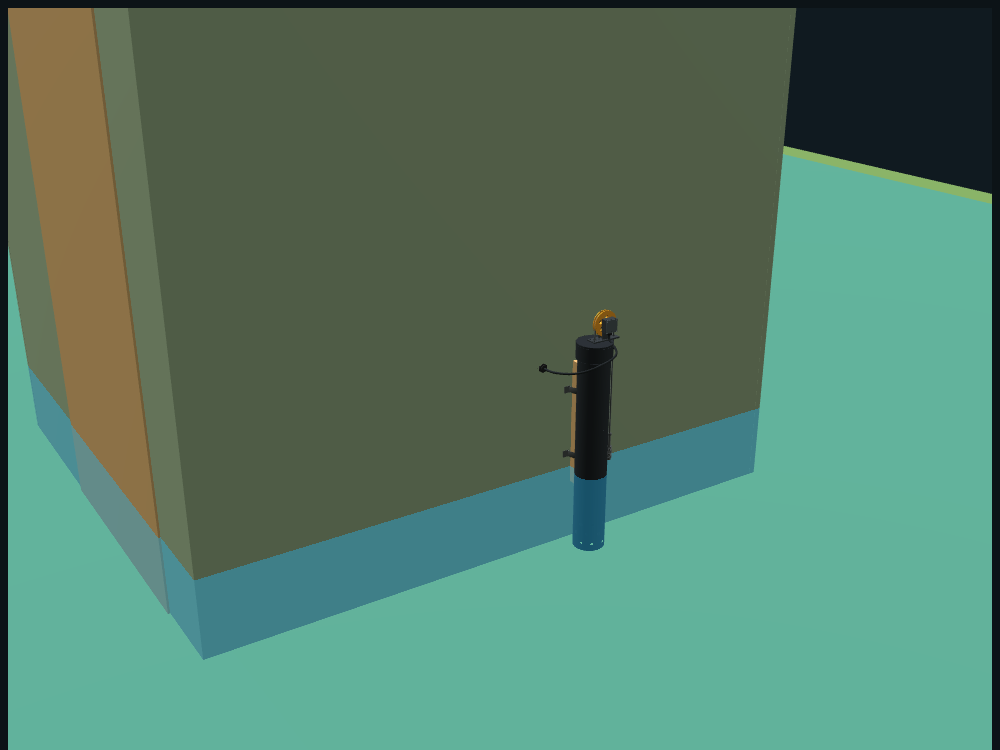
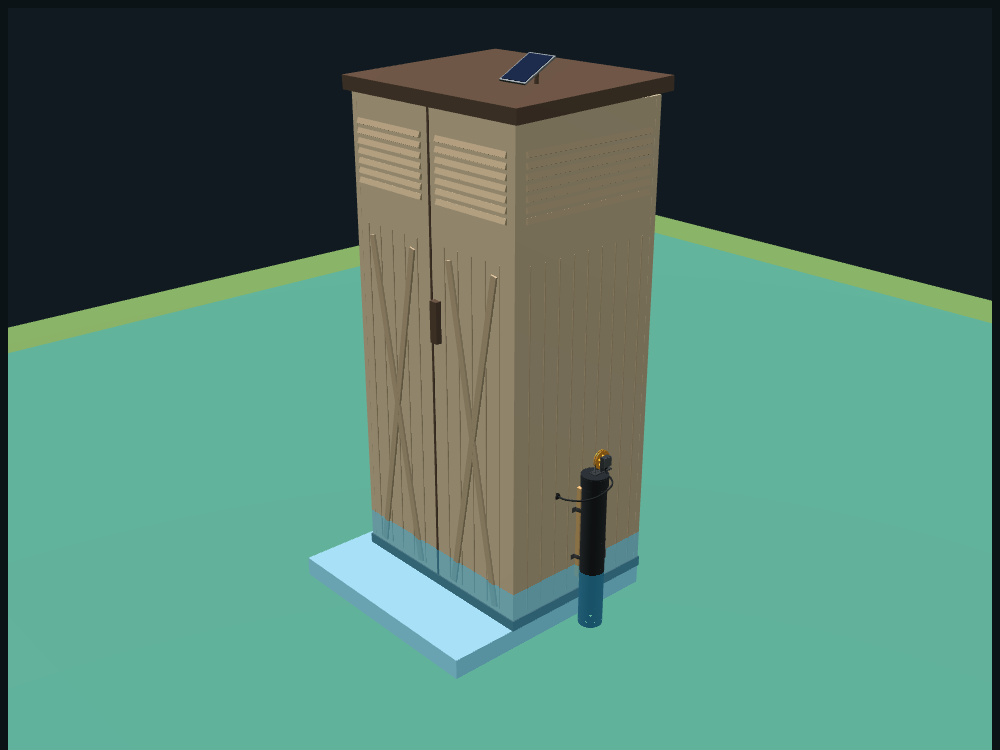
Model the Suncast vertical shed and add optional solar power
- Viewer: 819 x 648 x 1829 mm resin vertical shed on a concrete pad,
  gauge strapped to its side, ESP32 on the built-in shelf, 2 W panel
  on the roof, battery box beside the ESP32
- Fix a JS string quoting bug that blanked the 3D view
- BOM: shed ($299) and solar add-on ($16-31) as optional lines
- New section sizing the solar panel and 18650 battery from a daily
  energy budget (about 0.3 Wh/day dry, 0.7 Wh/day in a flood)

diff --git a/web/index.html b/web/index.html
@@ -288,7 +288,7 @@ footer { color: var(--muted); font-size: 13px; border-top: 1px solid var(--line)
   <section id="bom">
     <h2>Bill of materials</h2>
     <p class="muted" style="max-width:68ch">Rough prices, before tax and shipping. Pipe, chain, AS5600 and gland prices come from online listings checked in November 2026. The cap, straps, ESP32-C3, bolts and screws are typical prices, not checked against listings.</p>
-    <div class="bom-total"><span class="eyebrow">Estimated total</span><span class="big">$35–80</span><span class="muted">About $45 if the bolts, screws, charger and wire come from your parts bin.</span></div>
+    <div class="bom-total"><span class="eyebrow">Estimated total</span><span class="big">$35–80</span><span class="muted">About $45 if the bolts, screws, charger and wire come from your parts bin. Optional extras: the shed ($299) and <a href="#solar">solar power</a> ($16–31).</span></div>
     <div class="table-wrap">
       <table class="bom">
         <thead><tr><th>Item</th><th>Qty</th><th>Est. cost</th><th>Notes</th></tr></thead>
@@ -312,6 +312,8 @@ footer { color: var(--muted); font-size: 13px; border-top: 1px solid var(--line)
           <tr><td>3D-printed bracket, sprocket and lid, about 75 g of ASA or PETG</td><td class="mono">3</td><td class="mono num">$1–2</td><td>Filament cost only.</td></tr>
           <tr><td>Paper drilling templates</td><td class="mono">2 sheets</td><td class="mono num">$0</td><td>From the templates folder.</td></tr>
           <tr><td>Plastic bottle and sand</td><td class="mono">1</td><td class="mono num">$0</td><td>Recycled.</td></tr>
+          <tr class="group"><th colspan="4" scope="colgroup">Optional</th></tr>
+          <tr><td>Suncast BMS2000 vertical resin storage shed, 2 ft 8 in × 2 ft 1.5 in × 6 ft</td><td class="mono">1</td><td class="mono num">$299</td><td>Not in the total. A dry spot for the ESP32 if you don't have a shed or house wall to use.</td></tr>
         </tbody>
       </table>
     </div>
@@ -325,8 +327,54 @@ footer { color: var(--muted); font-size: 13px; border-top: 1px solid var(--line)
         <li><a href="https://www.tinytronics.nl/shop/en/sensors/magnetic-field/as5600-magnetic-angle-sensor-encoder-module" target="_blank" rel="noopener">AS5600 module with magnet, Tinytronics</a></li>
         <li><a href="https://www.fruugo.ca/as5600-magnetic-encoder-module-magnetic-induction-angle-measurement-sensor-module-foc-12bit-high-precision-sensor/p-447636426" target="_blank" rel="noopener">AS5600 module, Fruugo</a></li>
         <li><a href="https://au.element14.com/multicomp-pro/pg9dg/gland-pg9-4-8mm-pk10/dp/1621062" target="_blank" rel="noopener">PG7/PG9 cable glands, element14</a></li>
+        <li><a href="https://www.homedepot.com/p/Suncast-2-ft-8-25-in-X-2-ft-1-5-in-X-6-ft-Resin-Vertical-Storage-Shed-BMS2000/203702004" target="_blank" rel="noopener">Suncast BMS2000 shed, Home Depot</a></li>
       </ul>
     </details>
+  </section>
+
+  <section id="solar">
+    <h2>Optional: solar and battery power</h2>
+    <p style="max-width:68ch">The gauge can run without mains power. Use a single 18650 cell on the shed shelf, charged by a small panel on the roof. This only works with low-power firmware, because an ESP32 that keeps WiFi on all the time uses about 25 times more energy.</p>
+    <div class="cols" style="margin-top:12px">
+      <div>
+        <h3>Daily energy budget</h3>
+        <div class="table-wrap">
+          <table class="bom">
+            <thead><tr><th>Load</th><th>How it runs</th><th>mAh/day</th></tr></thead>
+            <tbody>
+              <tr><td>AS5600</td><td>Low-power mode 3 (polls every 100 ms), about 1.5 mA</td><td class="mono num">36</td></tr>
+              <tr><td>ESP32-C3</td><td>Light sleep, waking every 0.5 s to read the angle, about 1.5 mA average</td><td class="mono num">36</td></tr>
+              <tr><td>WiFi reports</td><td>Every 15 min when dry: about 3 s at 100 mA each</td><td class="mono num">8</td></tr>
+              <tr><td>Board regulator</td><td>About 40 µA. Remove the board's power LED, which draws 1–3 mA.</td><td class="mono num">1</td></tr>
+              <tr class="group"><th colspan="2">Dry days, normal use</th><th class="mono num">≈ 80</th></tr>
+              <tr><td>During a flood</td><td>Report every minute instead: +112 mAh</td><td class="mono num">≈ 190</td></tr>
+              <tr><td>For comparison</td><td>WiFi always on, about 80 mA</td><td class="mono num">≈ 1900</td></tr>
+            </tbody>
+          </table>
+        </div>
+      </div>
+      <div>
+        <h3>Sizing the panel and battery</h3>
+        <p>80 mAh at 3.7 V is about <strong>0.3 Wh a day</strong>, rising to 0.7 Wh on flood days.</p>
+        <div class="formula">panel W = daily Wh / (sun hours × losses)
+       = 0.7 / (2.5 × 0.5) ≈ 0.6 W</div>
+        <p style="margin-top:12px">San Francisco gets about 2.5 peak sun hours a day in December. Halve that to allow for charger losses, dirt and a less-than-ideal angle on the shed roof. Even then, <strong>a 1 W panel covers normal use</strong>. A <strong>2 W, 6 V panel</strong> gives headroom for grey weeks. On a storm day a panel only makes 10–20% of its rating, so the battery has to carry the storm.</p>
+        <p>One 3000 mAh 18650 cell lasts about 15 days in flood mode with no sun, or about 5 weeks of dry days. After a storm, a 2 W panel puts back about 700 mAh on a December day, so even a flat cell is full again in about 4–5 days, sooner in summer.</p>
+      </div>
+    </div>
+    <div class="table-wrap" style="margin-top:16px">
+      <table class="bom">
+        <thead><tr><th>Solar add-on part</th><th>Qty</th><th>Est. cost</th><th>Notes</th></tr></thead>
+        <tbody>
+          <tr><td>2 W 6 V mini solar panel</td><td class="mono">1</td><td class="mono num">$6–12</td><td>Mounted on the shed roof, tilted south.</td></tr>
+          <tr><td>CN3791 solar Li-ion charger module</td><td class="mono">1</td><td class="mono num">$3–6</td><td>Matches the panel's voltage; a TP4056 ($1) also works.</td></tr>
+          <tr><td>18650 cell, 3000 mAh, protected</td><td class="mono">1</td><td class="mono num">$5–8</td><td>Use a second cell in parallel for extra margin.</td></tr>
+          <tr><td>18650 holder and a small box</td><td class="mono">1</td><td class="mono num">$2–5</td><td>Sits on the shelf beside the ESP32.</td></tr>
+          <tr class="group"><th colspan="2">Solar add-on total</th><th class="mono num">$16–31</th><th>Not in the main total. Typical prices, not checked against listings.</th></tr>
+        </tbody>
+      </table>
+    </div>
+    <p class="muted" style="margin-top:10px">Wiring: panel → charger IN; cell → charger BAT; charger OUT → ESP32 5V pin. The board's own regulator makes 3.3 V for the ESP32 and the AS5600. These current figures are estimates, so measure the real average with a USB power meter before relying on the battery.</p>
   </section>
 
   <footer>First CAD pass, modelled in build123d. Not yet printed or tested.</footer>
@@ -381,9 +429,7 @@ footer { color: var(--muted); font-size: 13px; border-top: 1px solid var(--line)
   const chainMat = mat(0x9aa3a8, { metalness: 0.6, roughness: 0.35 });
   const steel = mat(0xb8c0c5, { metalness: 0.7, roughness: 0.3 });
   const grassMat = mat(0x5d7a45, { roughness: 1 });
-  const sidingMat = mat(0x7d8c72, { roughness: 0.85 });
-  const frontWallMat = mat(0x7d8c72, { roughness: 0.85 });
-  const roofMat = mat(0x3b3f42, { roughness: 0.8 });
+  const frontWallMat = mat(0xb7a48b, { roughness: 0.75 });
   const woodMat = mat(0xb08a5a, { roughness: 0.8 });
   const cableMat = mat(0x1f2326, { roughness: 0.7 });
 
@@ -420,36 +466,61 @@ footer { color: var(--muted); font-size: 13px; border-top: 1px solid var(--line)
   const water = box(7000, 7000, 1, waterMat, 0, 0, GROUND + 1);
   water.renderOrder = 5;
 
-  // shed: wall the gauge is strapped to is at y = -60 (outer face)
-  const SX0 = -700, SX1 = 1100, SY0 = -64, SY1 = -1660, SH = 2000, WT = 20;
-  const front = box(SX1 - SX0, WT, SH, frontWallMat, (SX0 + SX1) / 2, SY0 - WT / 2, GROUND + SH / 2);
-  box(SX1 - SX0, WT, SH, sidingMat, (SX0 + SX1) / 2, SY1 + WT / 2, GROUND + SH / 2);
-  box(WT, SY0 - SY1, SH, sidingMat, SX0 + WT / 2, (SY0 + SY1) / 2, GROUND + SH / 2);
-  box(WT, SY0 - SY1, SH, sidingMat, SX1 - WT / 2, (SY0 + SY1) / 2, GROUND + SH / 2);
-  // door on the +x end
-  box(6, 800, 1800, woodMat, SX1 + 3, -700, GROUND + 900);
-  // gable roof, ridge along x
-  const halfD = (SY0 - SY1) / 2 + 120, rise = 500, slope = Math.hypot(halfD, rise);
-  [1, -1].forEach(s => {
-    const r = new THREE.Mesh(new THREE.BoxGeometry(SX1 - SX0 + 240, slope, 18), roofMat);
-    r.position.set((SX0 + SX1) / 2, (SY0 + SY1) / 2 + s * halfD / 2, GROUND + SH + rise / 2);
-    r.rotation.x = -s * Math.atan2(rise, halfD);
-    M.add(r);
+  // Suncast BMS2000-style vertical resin shed: 819 W x 648 D x 1829 H mm on a concrete pad.
+  // Its side wall (outer face y = SY0) carries the gauge; doors face +x.
+  const SW = 819, SD = 648, SHH = 1829, PAD = 75, WT = 25, SY0 = -64;
+  const Z0 = GROUND + PAD, SYC = SY0 - SW / 2;
+  const resinMat = mat(0xb7a48b, { roughness: 0.75 });
+  const resinDark = mat(0xa38f75, { roughness: 0.8 });
+  const trimMat = mat(0x4b3a2f, { roughness: 0.6 });
+  box(SD + 260, SW + 70, PAD, mat(0xbdbab3, { roughness: 0.95 }), 130, SY0 - (SW + 70) / 2, GROUND + PAD / 2);   // pad
+  const wallH = SHH - 90;
+  box(SD + 8, SW + 8, 40, trimMat, 0, SYC, Z0 + 20);                                                // base trim
+  const front = box(SD, WT, wallH, frontWallMat, 0, SY0 - WT / 2, Z0 + 40 + wallH / 2);              // gauge side
+  box(SD, WT, wallH, resinMat, 0, SY0 - SW + WT / 2, Z0 + 40 + wallH / 2);                          // far side
+  box(WT, SW, wallH, resinMat, -SD / 2 + WT / 2, SYC, Z0 + 40 + wallH / 2);                         // back
+  const roof = box(SD + 50, SW + 50, 50, trimMat, -5, SYC, Z0 + SHH - 25); roof.rotation.y = 0.035;
+  // double doors on +x with louvers, grooves, X braces and a handle
+  const doorW = SW / 2 - 4, DX = SD / 2 - WT / 2;
+  [-1, 1].forEach(side => {
+    const yc = SYC + side * (doorW / 2 + 4);
+    box(WT, doorW, wallH, resinMat, DX, yc, Z0 + 40 + wallH / 2);
+    for (let i = 0; i < 7; i++) {
+      const sl = box(10, doorW - 70, 20, resinDark, DX + WT / 2 + 3, yc, Z0 + SHH - 160 - i * 34);
+      sl.rotation.y = -0.35;
+    }
+    for (let k = -2; k <= 2; k++) box(4, 3, wallH - 480, resinDark, DX + WT / 2 + 1, yc + k * (doorW / 6), Z0 + 60 + (wallH - 480) / 2);
+    const h = wallH - 520, ang = Math.atan2(doorW * 0.55, h);
+    [-1, 1].forEach(d => {
+      const xb = box(8, 26, Math.hypot(h, doorW * 0.55), resinDark, DX + WT / 2 + 4, yc, Z0 + 60 + h / 2);
+      xb.rotation.x = d * ang;
+    });
   });
-  // gable triangles
-  [SX0, SX1].forEach(x => {
-    const shp = new THREE.Shape();
-    shp.moveTo(-(SY0 - SY1) / 2, 0); shp.lineTo((SY0 - SY1) / 2, 0); shp.lineTo(0, rise - 10); shp.closePath();
-    const g = new THREE.ShapeGeometry(shp);
-    const m = new THREE.Mesh(g, mat(0x7d8c72, { side: THREE.DoubleSide, roughness: 0.85 }));
-    m.rotation.set(Math.PI / 2, Math.PI / 2, 0);
-    m.position.set(x, (SY0 + SY1) / 2, GROUND + SH);
-    M.add(m);
-  });
-  // shelf + ESP32 enclosure inside the shed
-  box(320, 200, 18, woodMat, 380, -190, 300);
-  box(110, 70, 50, mat(0xd7dcdf), 380, -170, 300 + 9 + 25);
-  box(40, 1.5, 22, mat(0x1d3f8f), 380, -134, 300 + 9 + 28);   // board peeking through clear lid side
+  box(4, 8, wallH, trimMat, DX + WT / 2 + 1, SYC, Z0 + 40 + wallH / 2);                              // door seam
+  const handle = box(22, 34, 150, trimMat, DX + WT / 2 + 11, SYC + 30, Z0 + 1050);
+  // gauge-side wall details (hidden when the wall goes see-through)
+  const sideDetails = new THREE.Group(); M.add(sideDetails);
+  for (let i = 0; i < 7; i++) {
+    const sl = new THREE.Mesh(new THREE.BoxGeometry(SD - 90, 10, 20), resinDark);
+    sl.position.set(0, SY0 + 3, Z0 + SHH - 160 - i * 34); sl.rotation.x = 0.35; sideDetails.add(sl);
+  }
+  for (let k = -4; k <= 4; k++) {
+    const gr = new THREE.Mesh(new THREE.BoxGeometry(3, 4, wallH - 480), resinDark);
+    gr.position.set(k * (SD / 10), SY0 + 1, Z0 + 60 + (wallH - 480) / 2); sideDetails.add(gr);
+  }
+  // optional 2 W solar panel on the roof, tilted toward the sun
+  const panel = new THREE.Group();
+  const pFrame = new THREE.Mesh(new THREE.BoxGeometry(150, 120, 6), mat(0x8d949a, { metalness: 0.5 })); panel.add(pFrame);
+  const pCell = new THREE.Mesh(new THREE.BoxGeometry(138, 108, 2), mat(0x1b2a4a, { roughness: 0.25, metalness: 0.3 })); pCell.position.z = 3.5; panel.add(pCell);
+  panel.rotation.y = 0.5; panel.position.set(80, SYC + 200, Z0 + SHH + 50); M.add(panel);
+  const pLeg = box(10, 10, 60, trimMat, 40, SYC + 200, Z0 + SHH + 20);
+  // optional 18650 battery + charger box beside the ESP32
+  box(80, 50, 40, mat(0x2a2d30), 230, -170, 300 + 7.5 + 20);
+
+  // built-in shelf + ESP32 enclosure, near the gauge-side wall
+  box(SD - 2 * WT, SW - 2 * WT, 15, resinMat, 0, SYC, 300);
+  box(110, 70, 50, mat(0xd7dcdf), 120, -170, 300 + 7.5 + 25);
+  box(40, 1.5, 22, mat(0x1d3f8f), 120, -134.5, 300 + 7.5 + 28);
 
   // 3/4" wood batten on the wall + two standard 3" two-hole pipe straps
   box(45, 19, 360, woodMat, 0, -54.5, -250);
@@ -514,7 +585,7 @@ footer { color: var(--muted); font-size: 13px; border-top: 1px solid var(--line)
   // cable: pod gland -> around the pipe -> wall gland -> ESP32 on the shelf
   const glandPod = [AXIS_X, 20.7, AXIS_Z - 18];
   const pts = [glandPod, [AXIS_X, 21, 8], [AXIS_X + 5, 60, -20], [45, 70, -40], [85, 35, -60], [115, -25, -70],
-    [120, -64, -70], [125, -110, -70], [160, -130, 60], [260, -150, 250], [340, -165, 320], [360, -170, 330]]
+    [120, -64, -70], [125, -110, -70], [135, -120, 80], [128, -128, 250], [122, -132, 320], [120, -134, 332]]
     .map(p => new THREE.Vector3(p[0], p[1], p[2]));
   M.add(new THREE.Mesh(new THREE.TubeGeometry(new THREE.CatmullRomCurve3(pts), 120, 3, 8, false), cableMat));
   // glands: pod (PG7, facing down) and wall
@@ -573,7 +644,7 @@ footer { color: var(--muted); font-size: 13px; border-top: 1px solid var(--line)
   function label(key, text, size, pos, accent) { L[key] = makeLabel(text, size, accent); L[key].position.copy(V(...pos)); }
   label('gauge', 'Flood gauge (3" black ABS)', 900, [0, 0, 260]);
   label('wallgland', 'Cable through shed wall', 900, [260, 0, -40]);
-  label('esp', 'ESP32 + USB power, dry inside', 900, [380, -170, 420]);
+  label('esp', 'ESP32 + USB power, dry inside', 900, [120, -170, 420]);
   label('pulley', 'Sprocket: 192 mm of chain per turn', 150, [-28, 0, 100]);
   label('toFloat', 'to float', 70, [25, 0, -40]);
   label('toCw', 'to counterweight', 100, [-95, 0, -40]);
@@ -672,20 +743,20 @@ footer { color: var(--muted); font-size: 13px; border-top: 1px solid var(--line)
   xrayBox.addEventListener('change', () => setXray(xrayBox.checked));
 
   const VIEWS = {
-    yard:      { t: [100, -300, -200], c: [1800, 2300, 1100], xray: false, arrows: false, shed: false },
+    yard:      { t: [100, -380, 250],  c: [2700, 2500, 1900], xray: false, arrows: false, shed: false },
     mechanism: { t: [-28, 0, 20],      c: [120, 330, 120],    xray: false, arrows: false, shed: false },
     sensor:    { t: [-28, 15, 40],     c: [150, 170, 105],    xray: true,  arrows: false, shed: false },
     forces:    { t: [0, 0, -330],      c: [380, 1150, -250],  xray: true,  arrows: true,  shed: false },
     inlet:     { t: [0, 0, -540],      c: [330, 480, -440],   xray: false, arrows: false, shed: false },
-    shed:      { t: [200, -150, 80],   c: [1150, 1350, 650],   xray: false, arrows: false, shed: true },
+    shed:      { t: [80, -220, 60],    c: [820, 1150, 560],    xray: false, arrows: false, shed: true },
   };
   const NOTES = {
-    yard: 'The gauge is strapped to the shed wall at the low point of the yard with two standard pipe straps. One short wire runs from the sensor pod into the shed.',
+    yard: 'The gauge is strapped to the side of a small resin storage shed with two standard pipe straps. One short wire runs from the sensor pod into the shed.',
     mechanism: 'The float chain drops through the centre hole into the pipe. The counterweight chain drops through the hole in the side tab, outside the pipe. When water lifts the float, the counterweight takes up the slack and turns the pulley.',
     sensor: 'X-ray view. The red/blue magnet turns with the axle, and the AS5600 reads its angle through the sealed pod wall. No shaft seal is needed.',
     forces: 'In air the float (150 g) outweighs the counterweight (100 g), so it sinks to the bottom. Water only has to supply about 50 g of lift, which takes ~15 mm of submersion. Then the float rides up and down with the water.',
     inlet: 'Three rows of 1/2" holes in the bottom 100 mm let floodwater in, while waves and debris mostly stay out. Drill them using the paper template.',
-    shed: 'The wire passes through a sealed hole in the shed wall, well above flood level. The ESP32 and its charger sit on a dry shelf inside.',
+    shed: 'The wire passes through a sealed hole in the side wall of the shed, well above flood level. The ESP32 sits on the built-in shelf about 90 cm off the ground, powered by USB or by the optional battery and the small solar panel on the roof.',
   };
   let tween = null, current = 'yard';
   function go(name, instant) {
@@ -694,7 +765,7 @@ footer { color: var(--muted); font-size: 13px; border-top: 1px solid var(--line)
     out('note').textContent = NOTES[name];
     setXray(v.xray);
     arrowsOn = v.arrows; arrows.forEach(a => a.visible = arrowsOn);
-    frontWallMat.transparent = v.shed; frontWallMat.opacity = v.shed ? 0.18 : 1; frontWallMat.depthWrite = !v.shed; frontWallMat.needsUpdate = true;
+    sideDetails.visible = !v.shed; frontWallMat.transparent = v.shed; frontWallMat.opacity = v.shed ? 0.18 : 1; frontWallMat.depthWrite = !v.shed; frontWallMat.needsUpdate = true;
     Object.values(L).forEach(s => s.visible = false);
     const toC = V(...v.c), toT = V(...v.t);
     if (instant || reduceMotion) { camera.position.copy(toC); controls.target.copy(toT); controls.update(); tween = null; }

diff --git a/README.md b/README.md
@@ -4,7 +4,7 @@ A cheap, deliberately low-tech water level sensor, built from standard plumbing 
 
 Built during the November 2026 San Francisco floods.
 
-![Flood gauge strapped to a shed wall, with the sensor wire running inside](docs/view_yard.png)
+![Flood gauge strapped to the side of a small resin storage shed, with a solar panel on the roof](docs/view_yard.png)
 
 **Interactive 3D model:** [view it online](https://claude.ai/artifact/73WavGVYFgETyoyXfjjkja), or open [`web/index.html`](web/index.html) through a local web server (`cd web && python3 -m http.server`, then visit http://localhost:8000). The `web/` folder is the source of the online page. It has views for the yard, pulley, sensor (X-ray), float and weights, inlet holes, and the shed interior, plus a water-depth slider and a storm simulation.
 
@@ -107,6 +107,9 @@ Rough prices, before tax and shipping. Pipe, chain, AS5600 and gland prices come
 | Paper drilling templates | 2 sheets | $0 | From the templates folder. |
 | Plastic bottle and sand | 1 | $0 | Recycled. |
 | **Total** | | **$35–80** | About $45 if the bolts, screws, charger and wire come from your parts bin. |
+| **Optional** | | | |
+| Suncast BMS2000 vertical resin storage shed, 2 ft 8 in × 2 ft 1.5 in × 6 ft | 1 | $299 | Not in the total. A dry spot for the ESP32 if you don't have a shed or house wall to use. |
+| Solar and battery add-on (see below) | 1 | $16–31 | Not in the total. |
 
 Price sources:
 
@@ -117,6 +120,7 @@ Price sources:
 - [AS5600 module with magnet, Tinytronics](https://www.tinytronics.nl/shop/en/sensors/magnetic-field/as5600-magnetic-angle-sensor-encoder-module)
 - [AS5600 module, Fruugo](https://www.fruugo.ca/as5600-magnetic-encoder-module-magnetic-induction-angle-measurement-sensor-module-foc-12bit-high-precision-sensor/p-447636426)
 - [PG7/PG9 cable glands, element14](https://au.element14.com/multicomp-pro/pg9dg/gland-pg9-4-8mm-pk10/dp/1621062)
+- [Suncast BMS2000 shed, Home Depot](https://www.homedepot.com/p/Suncast-2-ft-8-25-in-X-2-ft-1-5-in-X-6-ft-Resin-Vertical-Storage-Shed-BMS2000/203702004)
 
 ## Wiring
 
@@ -135,6 +139,44 @@ level_mm = (turns * 4096 + raw_angle) / 4096 * 192  - zero_offset
 - Sample at least every 0.5 s, so the pulley never turns more than half a revolution between samples. Floods rise far slower than that.
 - Store `turns` in NVS (flash) every few minutes and at each change. The other option is to re-zero at boot when the ground is dry.
 - Report to Home Assistant through ESPHome: a `pulse_width` sensor plus a small lambda for turn counting.
+
+## Optional: solar and battery power
+
+The gauge can run without mains power. Use a single 18650 cell on the shed shelf, charged by a small panel on the shed roof. This only works with low-power firmware, because an ESP32 that keeps WiFi on all the time uses about 25 times more energy.
+
+### Daily energy budget
+
+| Load | How it runs | mAh/day |
+|---|---|---|
+| AS5600 | Low-power mode 3 (polls every 100 ms), about 1.5 mA | 36 |
+| ESP32-C3 | Light sleep, waking every 0.5 s to read the angle, about 1.5 mA average | 36 |
+| WiFi reports | Every 15 min when dry: about 3 s at 100 mA each | 8 |
+| Board regulator | About 40 µA. Remove the board's power LED, which draws 1–3 mA. | 1 |
+| **Dry days, normal use** | | **≈ 80** |
+| During a flood | Report every minute instead: +112 mAh | ≈ 190 |
+| For comparison | WiFi always on, about 80 mA | ≈ 1900 |
+
+### Sizing the panel and battery
+
+80 mAh at 3.7 V is about **0.3 Wh a day**, rising to 0.7 Wh on flood days.
+
+```
+panel W = daily Wh / (sun hours × losses) = 0.7 / (2.5 × 0.5) ≈ 0.6 W
+```
+
+San Francisco gets about 2.5 peak sun hours a day in December. Halve that to allow for charger losses, dirt and a less-than-ideal angle on the shed roof. Even then, **a 1 W panel covers normal use**. A **2 W, 6 V panel** gives headroom for grey weeks. On a storm day a panel only makes 10–20% of its rating, so the battery has to carry the storm.
+
+One 3000 mAh 18650 cell lasts about 15 days in flood mode with no sun, or about 5 weeks of dry days. After a storm, a 2 W panel puts back about 700 mAh on a December day, so even a flat cell is full again in about 4–5 days, sooner in summer.
+
+| Solar add-on part | Qty | Est. cost | Notes |
+|---|---|---|---|
+| 2 W 6 V mini solar panel | 1 | $6–12 | Mounted on the shed roof, tilted south. |
+| CN3791 solar Li-ion charger module | 1 | $3–6 | Matches the panel's voltage; a TP4056 ($1) also works. |
+| 18650 cell, 3000 mAh, protected | 1 | $5–8 | Use a second cell in parallel for extra margin. |
+| 18650 holder and a small box | 1 | $2–5 | Sits on the shelf beside the ESP32. |
+| **Solar add-on total** | | **$16–31** | Typical prices, not checked against listings. |
+
+Wiring: panel → charger IN; cell → charger BAT; charger OUT → ESP32 5V pin. The board's own regulator makes 3.3 V for the ESP32 and the AS5600. These current figures are estimates, so measure the real average with a USB power meter before relying on the battery.
 
 ## Siting
 
